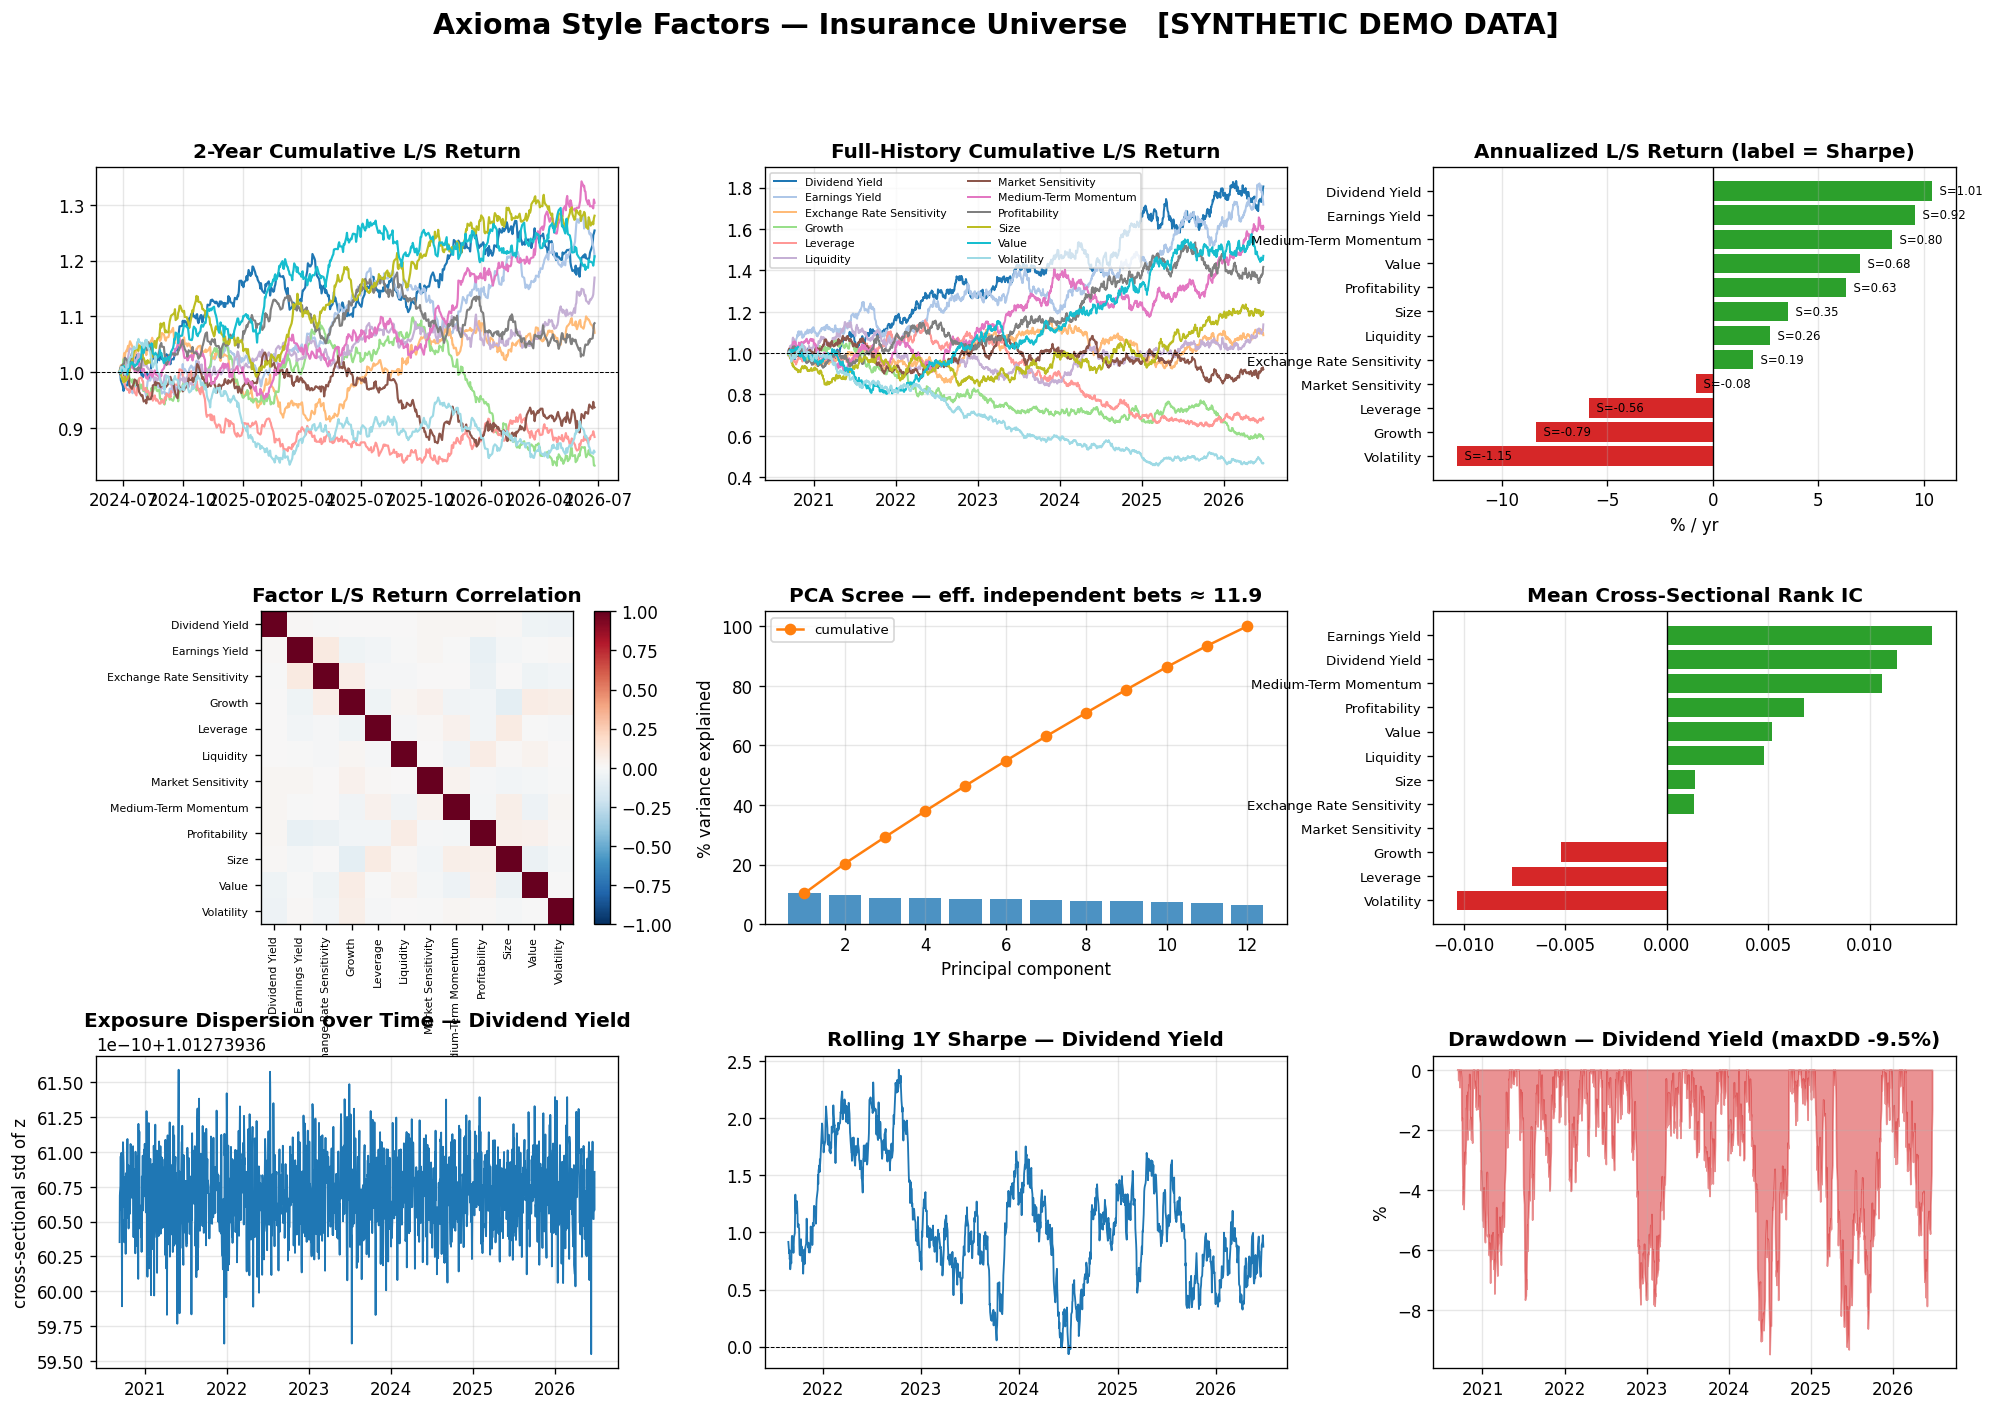
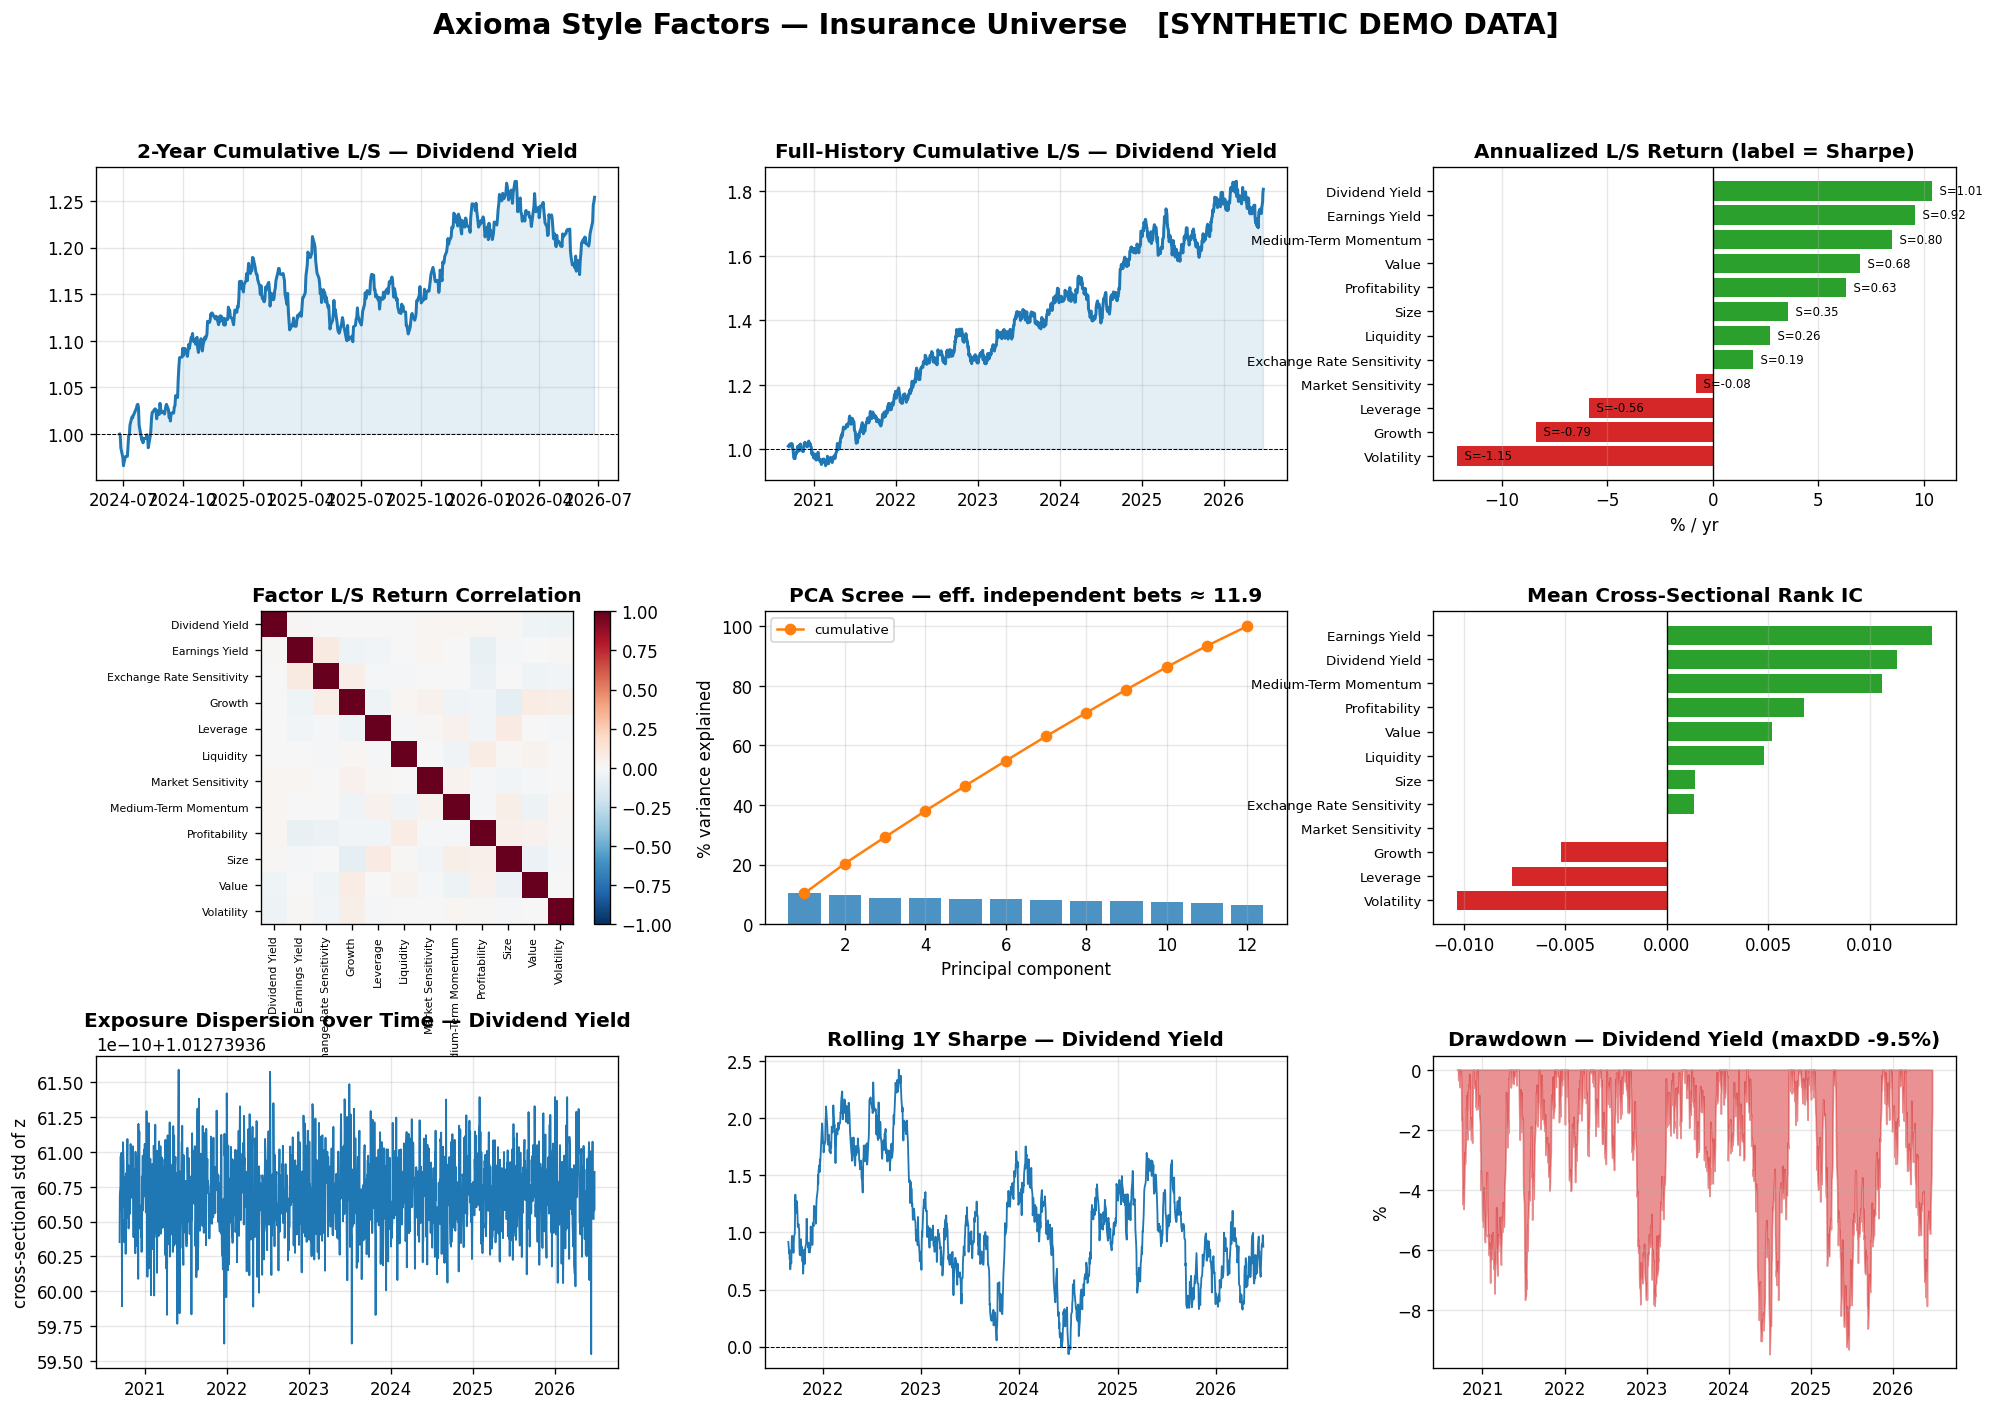
Charts: replace multi-line "EKG" panels with single-line views
Core 2yr & full-history cumulative L/S and advanced IC-decay now show one
clean line for the standout factor (with fill) instead of all-factor spaghetti.
Cross-factor comparison remains in the bar/heatmap panels.

Changed region(s): [[0.3731, 0.0936, 0.653, 0.3433], [0.0311, 0.0936, 0.3109, 0.3433]]

diff --git a/axioma_insurance_factor_analysis.py b/axioma_insurance_factor_analysis.py
@@ -824,27 +824,29 @@ def make_dashboard(results, ls_matrix, pca, expo, out_path, is_synth, ppy):
 
     cmap = plt.cm.tab20(np.linspace(0, 1, len(results)))
     color = {fr.factor: cmap[i] for i, fr in enumerate(results)}
+    best = max(results, key=lambda x: (x.sharpe if not np.isnan(x.sharpe) else -9))
+    bc = color[best.factor]
 
-    # (1) 2-year cumulative L/S
+    # (1) 2-year cumulative L/S — top factor only (single clean line)
     ax = fig.add_subplot(gs[0, 0])
     cutoff = expo["date"].max() - pd.Timedelta(days=730)
-    for fr in results:
-        c = fr.cum[fr.cum.index >= cutoff]
-        if len(c):
-            c = c / c.iloc[0]
-            ax.plot(c.index, c.values, lw=1.3, color=color[fr.factor], label=fr.factor)
-    ax.set_title("2-Year Cumulative L/S Return", fontweight="bold")
+    c = best.cum[best.cum.index >= cutoff]
+    if len(c):
+        c = c / c.iloc[0]
+        ax.plot(c.index, c.values, lw=1.8, color=bc)
+        ax.fill_between(c.index, 1.0, c.values, where=c.values >= 1.0, color=bc, alpha=0.12)
+    ax.set_title(f"2-Year Cumulative L/S — {best.factor}", fontweight="bold")
     ax.axhline(1.0, color="k", lw=0.6, ls="--")
     ax.grid(alpha=0.3)
 
-    # (2) Full-history cumulative L/S
+    # (2) Full-history cumulative L/S — top factor only (single clean line)
     ax = fig.add_subplot(gs[0, 1])
-    for fr in results:
-        ax.plot(fr.cum.index, fr.cum.values, lw=1.2, color=color[fr.factor], label=fr.factor)
-    ax.set_title("Full-History Cumulative L/S Return", fontweight="bold")
+    ax.plot(best.cum.index, best.cum.values, lw=1.8, color=bc)
+    ax.fill_between(best.cum.index, 1.0, best.cum.values, where=best.cum.values >= 1.0,
+                    color=bc, alpha=0.12)
+    ax.set_title(f"Full-History Cumulative L/S — {best.factor}", fontweight="bold")
     ax.axhline(1.0, color="k", lw=0.6, ls="--")
     ax.grid(alpha=0.3)
-    ax.legend(fontsize=6.5, ncol=2, loc="upper left")
 
     # (3) Annualized L/S return bar (color by Sharpe)
     ax = fig.add_subplot(gs[0, 2])
@@ -898,7 +900,6 @@ def make_dashboard(results, ls_matrix, pca, expo, out_path, is_synth, ppy):
 
     # (7) Exposure dispersion over time (breadth of the bet) for top-Sharpe factor
     ax = fig.add_subplot(gs[2, 0])
-    best = max(results, key=lambda x: (x.sharpe if not np.isnan(x.sharpe) else -9))
     zb = (expo[expo["factor"] == best.factor]
           .groupby("date")["zscore"].std())
     ax.plot(zb.index, zb.values, color=color[best.factor], lw=1.1)
@@ -1010,18 +1011,18 @@ def make_advanced_dashboard(results, ls_matrix, expo, rets, universe, macro,
         ax.text(0.5, 0.5, "No macro series", ha="center", va="center"); ax.axis("off")
     ax.grid(alpha=0.3)
 
-    # (6) IC decay curves
+    # (6) IC decay curve — strongest factor only (single clean line)
     ax = fig.add_subplot(gs[1, 2])
     horizons = (1, 5, 21, 63)
-    top = sorted(results, key=lambda x: abs(x.ic_mean), reverse=True)[:6]
-    cmap = plt.cm.tab10(np.linspace(0, 1, len(top)))
-    for c, fr in zip(cmap, top):
-        dec = ic_decay(expo, rets, fr.factor, horizons)
-        ax.plot(horizons, [dec[h] for h in horizons], "o-", color=c, label=fr.factor, lw=1.3)
+    ic_best = max(results, key=lambda x: abs(x.ic_mean) if not np.isnan(x.ic_mean) else 0)
+    dec = ic_decay(expo, rets, ic_best.factor, horizons)
+    yv = [dec[h] for h in horizons]
+    ax.plot(horizons, yv, "o-", color="#1f77b4", lw=1.8)
+    ax.fill_between(horizons, 0, yv, color="#1f77b4", alpha=0.12)
     ax.axhline(0, color="k", lw=0.6, ls="--")
     ax.set_xlabel("forward horizon (periods)"); ax.set_ylabel("mean IC")
-    ax.set_title("IC Decay by Horizon", fontweight="bold")
-    ax.legend(fontsize=6.5); ax.grid(alpha=0.3)
+    ax.set_title(f"IC Decay by Horizon — {ic_best.factor}", fontweight="bold")
+    ax.grid(alpha=0.3)
 
     # (7) Quintile monotonicity for top-4 by |Sharpe|
     ax = fig.add_subplot(gs[2, 0])